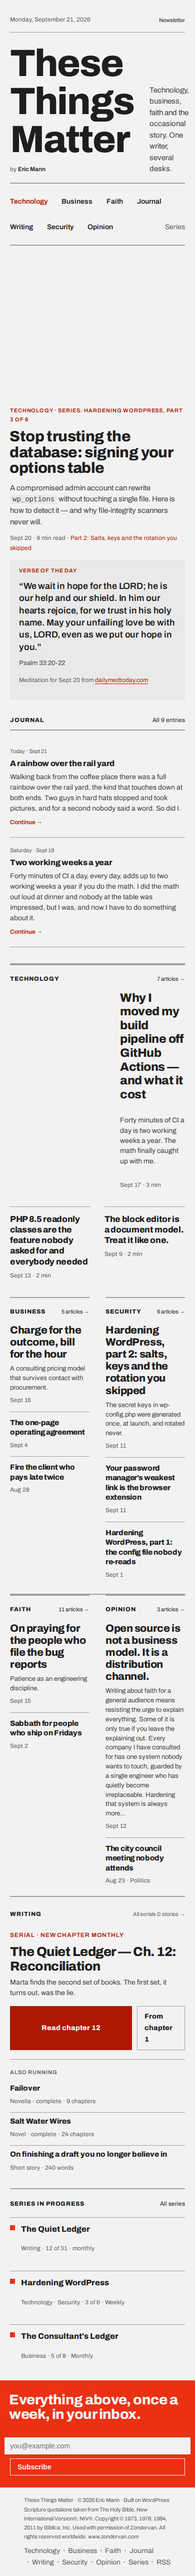
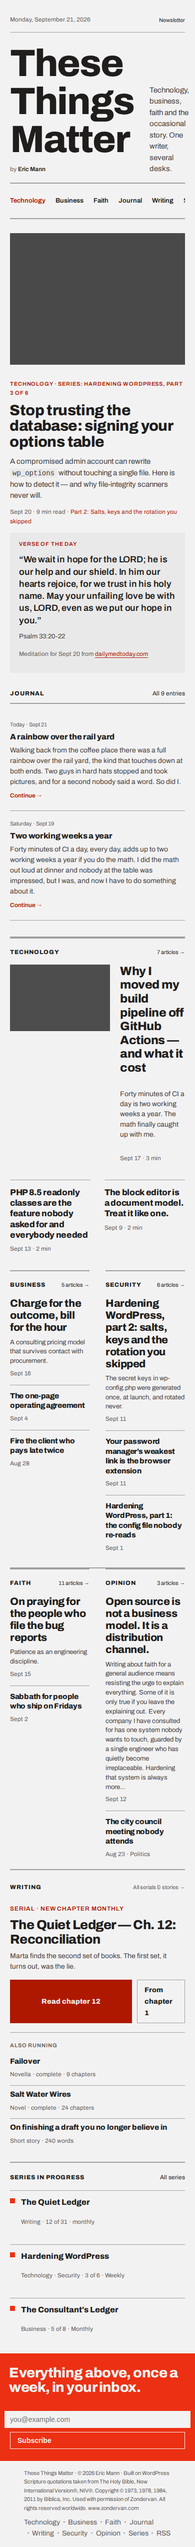
P4-01: Full 3a phone pass and ≤ 1024 pass
Goal: make / at 390 match 3a and at ≤ 1024 match 02 §A Responsive for
every zone not already covered by a fidelity row.

Every remaining *-phone/-tablet fidelity row was already un-fixme'd by
earlier per-component tasks (P1-P3), so this task's real work is the
02 §A behaviours no single fidelity row checks plus a real bug those
checks surfaced along the way.

ttm.css:
- .ttm-lead-row stays 8/4 between 901-1024px (overriding the shared
  is-style-grid-8-4's own 1024px single-column collapse for this row
  specifically, without touching that shared class's other consumers
  -- out of scope per this task's own "inner pages" exclusion).
- .ttm-masthead-front__nav ul: <=720 gains font-size 13px (ui token),
  gap 20px, per §6.1.9's literal nav values (was still the desktop
  28px gap that P1-02 set).
- Real bug found live via the new phone.spec.mjs: the nav's own
  overflow-x: auto (already set by P1-02) never actually enabled
  scrolling, because (a) core's is-layout-flex sets flex-wrap: wrap on
  the shared .ttm-masthead-front__nav class (both the <nav> and its
  child <ul> carry it), silently wrapping the 8 section links to
  multiple lines instead of overflowing horizontally, and (b) the ul,
  itself nav's own flex item, was shrinking to fit nav's box by
  default flex-shrink behaviour even after removing the wrap. Fixed
  with flex-wrap: nowrap and flex-shrink: 0 on the ul specifically.
- .ttm-footer's phone override gains line-height: 1.6 (§6.1.9's
[…]

diff --git a/themes/ttm-theme/assets/css/ttm.css b/themes/ttm-theme/assets/css/ttm.css
@@ -443,8 +443,7 @@ p.is-style-poster {
 	border-radius: 0;
 }
 
-/* Newsletter honeypot (Provider/CustomUrl.php): visually hidden, still tab/DOM-reachable so a
-   bot filling every field trips it; real visitors never see or reach it. */
+/* Honeypot: visually hidden, still tab/DOM-reachable so bots trip it; visitors never reach it. */
 .ttm-hp {
 	position: absolute;
 	width: 1px;
@@ -679,6 +678,15 @@ blockquote.is-style-pull cite,
 
 	.ttm-masthead-front__nav::-webkit-scrollbar {
 		display: none;
+	}
+
+	/* Core sets flex-wrap: wrap; the ul, itself nav's flex item, also needs flex-shrink: 0. */
+	.ttm-masthead-front__nav ul {
+		flex-wrap: nowrap;
+		flex-shrink: 0;
+		gap: 20px;
+		font-size: var(--wp--preset--font-size--ui);
+		white-space: nowrap;
 	}
 }
 
@@ -979,6 +987,7 @@ blockquote.is-style-pull cite,
 		flex-direction: column;
 		gap: var(--wp--preset--spacing--20);
 		font-size: 11px;
+		line-height: 1.6;
 	}
 }
 
@@ -1112,6 +1121,14 @@ blockquote.is-style-pull cite,
 	display: flex;
 	flex-direction: column;
 	gap: var(--wp--preset--spacing--60);
+}
+
+/* 02 §A: 8/4 down to 900px, below the shared 1024px single-column collapse. */
+@media (max-width: 1024px) and (min-width: 901px) {
+
+	.ttm-lead-row {
+		grid-template-columns: minmax(0, 8fr) minmax(0, 4fr);
+	}
 }
 
 /* 4.9 verse */
